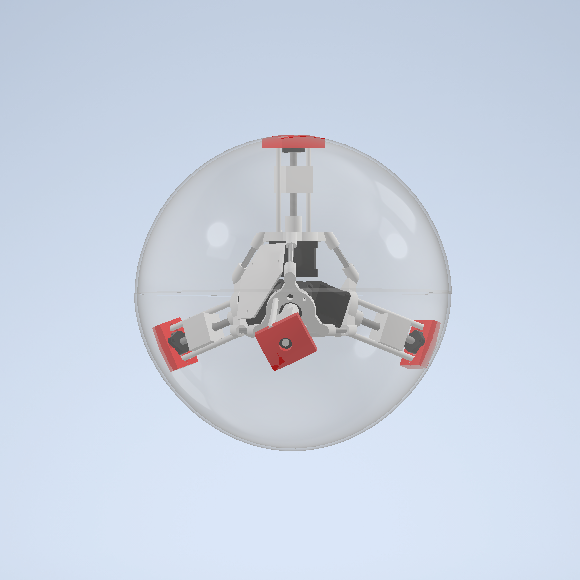
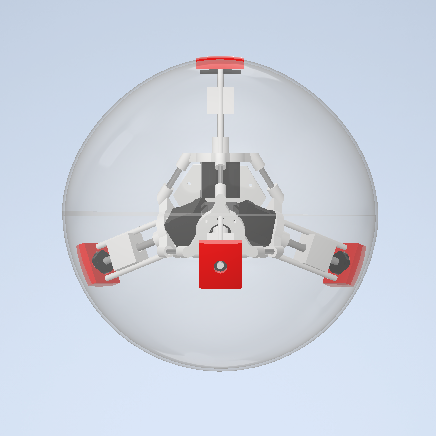
report update

Changed region(s): [[0.1193, 0.1193, 0.8647, 0.8647], [0.2683, 0.2683, 0.3876, 0.3876]]

diff --git a/Report/report.tex b/Report/report.tex
@@ -74,18 +74,19 @@ linkcolor=black
 
   \ThisLRCornerWallPaper{0.8}{cover.png}
 
-  \begin{longtable}[]{@{}ccc@{}}
+  \begin{center}
+  \begin{tabular}[]{ccc}
   \toprule
-  成员 & 姓名 & 联系电话\tabularnewline
+  成员/分工 & 姓名 & 联系电话\\
   \midrule
-  \endhead
-  组长 & 张骏扬 & 18967993817\tabularnewline
-  执行组长 & 曲凌枫 & \tabularnewline
-  机械组 & 马博楠 & \tabularnewline
-  电子组 & 栾家骏 & \tabularnewline
-  软件组 & 戴嘉琦 & \tabularnewline
+  组长 & 张骏扬 & 18967993817 \\
+  执行组长 & 曲凌枫 & 15698207871 \\
+  机械组 & 马博楠 & 17693108836 \\
+  电子组 & 栾家骏 & 13323022829 \\
+  软件组 & 戴嘉琦 & 18612535164 \\
   \bottomrule
-  \end{longtable}
+  \end{tabular}
+\end{center}
   \addtocounter{table}{-1}
 
   
@@ -128,11 +129,15 @@ linkcolor=black
 \begin{itemize}
   \item 进行团队组织实践，使用团队组织技巧，锻炼合作能力；
   \item 进行产品调研与开发实践，锻炼创新能力；
-  \item 进行机械、电子、软件设计实践，锻炼学习与设计能力
+  \item 进行机械、电子、软件设计实践，锻炼学习与设计能力；
   \item 进行系统统调装配，锻炼排错与优化能力。
 \end{itemize}
 
+球形机器人的应用包括监视、环境监测、巡视、水下探索、行星探索、复康、儿童发展及娱乐。球形机器人也可以是可以在陆地上或是水中（或水底）行动的两栖机器人。
+
 \subsection{国内外现有研究成果}
+
+最常见的球形机器人行动方式是透过调整机器人的重心位置来达到\upcite{halme1996motion}。其他的行动方式有利用飞轮的角动量守恒\upcite{joshi2010design}、利用环境中的风、利用外壳形变的方式移动、以及用陀螺仪效应。
 
 配重式全向球形机器人最初的设计概念在 2004 年被提出\upcite{2004Introducing}。
 
@@ -160,7 +165,7 @@ linkcolor=black
 
 \subsubsection{设计概念一——六足式机器人}
 
-最初，本项目拟设计制作六电机六足式机器人，并使用该设想进行初步立项。该设想被否决，原因是已有成熟的商业产品先例以及开源项目，无法体现创新性。
+最初，本项目拟设计制作六电机六足式模块化机器人，并使用该设想进行初步立项。该设想被否决，原因是已有成熟的商业产品先例以及开源项目，无法体现创新性。
 
 
 \subsubsection{设计概念二——三足式弹跳机器人}
@@ -174,7 +179,7 @@ linkcolor=black
 
 \subsubsection{设计概念四——配重式球型机器人}
 
-
+最终，本项目设计了配重式球形机器人。
 
 \subsection{概念选择与评估}
 
@@ -204,7 +209,39 @@ linkcolor=black
   \caption{机械结构 CAD 设计渲染图}
 \end{figure}
 
+该球形机器人以伊朗科技大学的 Puyan Mojabi 和伊朗加兹温阿萨德大学的 Amir Homayoun Javadi A 开发的一种全方位球形运动机器人 August\upcite{2004Introducing} 为原型进行设计，机器人主体分为核心框架，丝杆滑台，球壳三大部分。
+
+其中核心框架为正四面体结构，四个顶角位置设计了连接角结构用于构建框架并固定步进电机。步进电机传动轴从连接角内侧身处并通过联轴器与丝杆滑台连接，滑台结构两侧的导轨在保证质量块正常运动的同时也加强了整个结构的强度。机器人内部结构通过自主设计的固定座与球壳连接，由于结构特性，连接处无需使用粘结剂固定，便于拆卸维修与调试。
+
+机械系统各部件加工采用了不同的方法，其中注塑球壳、配重、丝杆滑台、轴承等部件为预制工业品，固定座与连接角结构框架为 3D 打印部件。电子部件的固定基座由亚克力切割完成。结构利用螺丝、无痕胶、扎带等方式固定，在保证开发效率的情况下照顾了机械强度等要求。
+
 \subsection{电子系统设计}
+
+\subsubsection{电子系统综述}
+
+该机器人使用的电子系统围绕 Arduino UNO 控制板开发。
+
+\subsubsection{模块接线设计}
+
+传感器子系统采用了 MPU6050 传感器模块，其为整合性 6 轴运动处理组件，控制板通过该组件获得 pitch，roll，yaw 等姿态信息，具体线路见示意图\ref{fig_wire_subfig_a}。
+
+\begin{figure}[H]
+  \centering
+  \subfigure[MPU6050 接线图纸]{
+    \label{fig_wire_subfig_a}
+    \includegraphics[width=0.48\linewidth]{figures/MPU6050接线图纸.png}
+  }
+  \hfill
+  \subfigure[电机驱动图纸]{
+    \label{fig_wire_subfig_b}
+    \includegraphics[width=0.48\linewidth]{figures/电机驱动图纸.png}
+  }
+  \caption{电子系统接线图纸}
+  \label{fig_wire}
+\end{figure}
+
+
+步进电机子系统中，使用了 A4988 作为步进电机控制模块，示意图\ref{fig_wire_subfig_b}中，右上角的 VMOT 与 GND 提供步进电机运行电源，2B 与 2A 提供电机一极的运转电力，1B 与 1A 提供另一极；VDD 与 GND 提供 A4988 模块电力；左下 DIR（Direction）控制电机转向，STEP 控制电机旋转步数；SLP（Sleep）控制模块是否休眠，默认开启状态为高电平；RST（Reset）控制微步设置。将 SLP 与 RST 相连是为了方便进行微步设置进行调试，但实际运行中我们不采用预配置的微步操作，而是使用自己编写的一套代码控制步进电机的运转，因此在代码里我们加上了相应的函数，以调节转速、转向，并且能够控制圈数等物理参数。
 
 \subsection{控制算法设计}
 
@@ -247,6 +284,46 @@ linkcolor=black
 \subsubsection{位置求解}
 
 当机器人在低速情况时，可假设中心与重心的射线始终指向地心，也就是说，只要改变机器人重心在相对坐标系中的位置，产生滚动，就可以改变机器人中心在绝对坐标系中的位置，并且位置是确定的。下文给出一种确定性连续求解位置的方法，目的是把机器人位移指令转换的重心位置串，继续转换为配重块位置串。
+
+
+\begin{figure}[H]
+  \begin{minipage}{0.32\linewidth}
+    \begin{center}
+      \includegraphics[width=0.98\linewidth]{figures/sim33.jpg}
+    \end{center}
+  \end{minipage}
+  \hfill
+  \begin{minipage}{0.32\linewidth}
+    \begin{center}
+      \includegraphics[width=0.98\linewidth]{figures/sim37.jpg}
+    \end{center}
+  \end{minipage}
+  \hfill
+  \begin{minipage}{0.32\linewidth}
+    \begin{center}
+      \includegraphics[width=0.98\linewidth]{figures/sim41.jpg}
+    \end{center}
+  \end{minipage}
+  \vfill
+  \begin{minipage}{0.32\linewidth}
+    \begin{center}
+      \includegraphics[width=0.98\linewidth]{figures/sim45.jpg}
+    \end{center}
+  \end{minipage}
+  \hfill
+  \begin{minipage}{0.32\linewidth}
+    \begin{center}
+      \includegraphics[width=0.98\linewidth]{figures/sim49.jpg}
+    \end{center}
+  \end{minipage}
+  \hfill
+  \begin{minipage}{0.32\linewidth}
+    \begin{center}
+      \includegraphics[width=0.98\linewidth]{figures/sim53.jpg}
+    \end{center}
+  \end{minipage}
+  \caption{重心位置反解的可视化计算机模拟}
+\end{figure}
 
 当给定中心位置 $\overline{\boldsymbol c}$，因式\ref{equ_center}是超定方程，拥有多解，不能立刻求出四个配重位移比例。则以电机对称调用、尽量靠近杆中心为目标，给出一个合理的求解方法。若忽略 $\boldsymbol v_3$，由于 $\boldsymbol v_0,\boldsymbol v_1,\boldsymbol v_2$ 正交，以此三个向量作为基向量，可解出 $\overline{\boldsymbol c}$ 的分解 $\left(p_0^{(3)},p_1^{(3)},p_2^{(3)}\right)$。又有 $\boldsymbol v_3 = - \boldsymbol v_0 -\boldsymbol v_1-\boldsymbol v_2$，则可以得到一个尽量靠近杆中心的非对称解：
 
@@ -321,9 +398,40 @@ linkcolor=black
 
 \subsection{概念的原型化结果}
 
+本项目已完成样机的开发。
 
+\begin{figure}[H]
+  \begin{center}
+    \includegraphics[width=0.8\linewidth]{figures/result1.png}
+  \end{center}
+  \caption{样机细节图}
+\end{figure}
 
 \subsection{创新实践总结}
+
+本项目的研发工作在半个学期内达到了中后期阶段，这一切成绩均离不开各位组员的积极参与与勤奋付出。
+
+机械设计与加工部分由马博楠同学完成；电子部分中，整体系统由曲凌枫同学设计组件，传感器子系统与电机子系统由栾家骏负责组装调试；软件部分中，控制算法由张骏扬同学开发完成，模块通信部分由戴嘉琦开发完成。各成员也参与到了其他成员的活动中，完成了模块函数的封装，控制算法的讨论，通信协议的确定，机械参数的对接等工作。
+
+本项目软件部分多数成果使用 Git（分布式版本管理工具）维护，可以作为项目整体进度的参考。
+
+\begin{figure}[H]
+  \begin{minipage}{0.98\linewidth}
+    \begin{center}
+      \includegraphics[width=0.98\linewidth]{figures/github.png}
+    \end{center}
+  \end{minipage}
+  \vfill
+  \begin{minipage}{0.98\linewidth}
+    \begin{center}
+      \includegraphics[width=0.98\linewidth]{figures/gitnetwork.png}
+    \end{center}
+  \end{minipage}
+  \caption{Git Commit 历史与分支网络}
+\end{figure}
+
+
+
 
 \newpage
 \thispagestyle{fancy}
